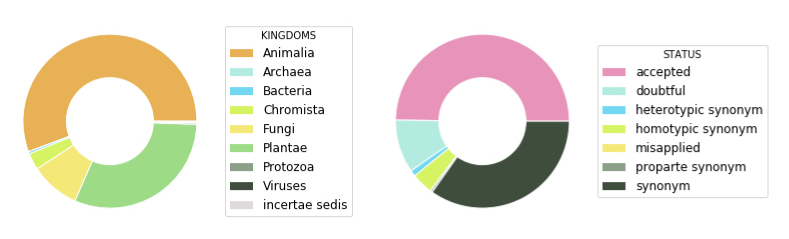
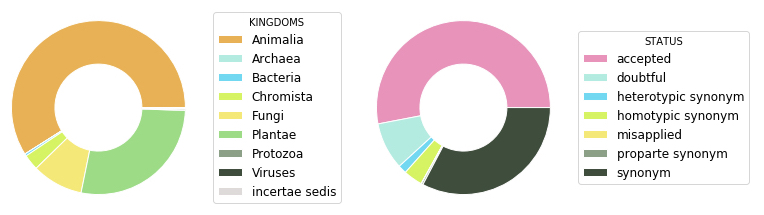
fixing post html page test

diff --git a/public/post/gbif-backbone-taxonomy/index.html b/public/post/gbif-backbone-taxonomy/index.html
@@ -203,7 +203,7 @@ Plus, it gives me an excellent opportunity to talk about the GBIF backbone taxon
 <p>a single synthetic management classification with the goal of covering all names GBIF is dealing with.</p>
 </blockquote>
 
-<p>The newest version (September 2019) contains 5,858,143 names. Most of these names are animals. Plus, a large part of these names are actually synonyms (see pie charts below).
+<p>The newest version (September 2019) contains 6,586,625 names. Most of these names are animals. Plus, a large part of these names are actually synonyms (see pie charts below).
 <img src="/post/2019-08-19-gbif-backbone-taxonomy/stats.september2019.001.jpeg" alt="Statistics Backbone taxonomy - September 2019" /></p>
 
 <p>If you are interested, I suggest that you browse <a href="https://www.gbif.org/species/search">our web interface</a> or check out the <a href="https://www.gbif.org/developer/species">Species API</a></p>

diff --git a/public/tags/gbif/index.html b/public/tags/gbif/index.html
@@ -253,19 +253,3 @@
 
 </body>
 </html>
-vascript" src="/lib/jquery/jquery-3.2.1.min.js"></script>
-  <script type="text/javascript" src="/lib/slideout/slideout-1.0.1.min.js"></script>
-  
-
-
-<script type="text/javascript" src="/dist/even.min.js?v=3.2.0"></script>
-
-
-
-
-
-
-
-
-</body>
-</html>
